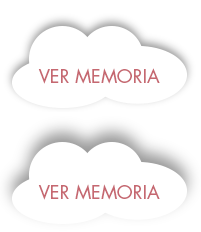
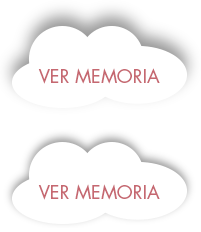
montones de cambios

diff --git a/app/webroot/css/tema1.css b/app/webroot/css/tema1.css
@@ -333,7 +333,7 @@ p.whatdo{
 .cover_menu{
   width: 600px;
   position: absolute;
-  left: 105px;
+  left: 113px;
   top: 350px;
 }
 
@@ -357,11 +357,12 @@ p.whatdo{
   width: 188px;
   height: 130px;
   text-indent: -9999px;
+  margin-top: -9px;
 }
 
 .share_bt:hover{
   background-position: 0 134px;
-  margin-top: -5px;
+  margin-top: -13px;
 }
 
 
@@ -371,16 +372,17 @@ p.whatdo{
   width: 188px;
   height: 123px;
   text-indent: -9999px;
+  margin-top: 1px;
 }
 
 .watch_bt:hover{
   background-position: 0 116px;
-  margin-top: -5px;
+  margin-top: -3px;
 }
 
 .instructions_bt{
   position: absolute;
-  left: 287px;
+  left: 282px;
   width: 236px;
   height: 76px;
   background-image: url(../img/bt_instrucciones.png);
@@ -1494,6 +1496,10 @@ text-align: center;
   margin: 0 0 10px 0;
 }
 
+#FirstkickPageAddForm .photogenic input {
+    width: 357px;
+}
+
 #FirstkickPageAddForm .hasDatepicker {
   width: 120px;
 }
@@ -1509,8 +1515,7 @@ text-align: center;
 }
 
 #FirstkickPageAddForm .colL .hasDatepicker {
-    margin-top: 300px;
-    padding-left: 60px;
+    margin: 310px 65px 0;
 }
 
 #FirstkickPageAddForm .colR {
@@ -1920,6 +1925,18 @@ text-align: center;
   left: 100px;
   top: 70px;
 }
+
+#queesanidar{
+	display: none;
+	background-image: url(../img/pop_anidar.png);
+	width: 390px;
+	height: 366px;
+	position: fixed;
+	left: 144px;
+	top: 500px;
+	z-index: 1;
+}
+
 
 #NestingPageAddForm .dado {
   width: 300px;

diff --git a/app/webroot/css/tema3.css b/app/webroot/css/tema3.css
@@ -34,6 +34,10 @@ input[type="text"], input[type="number"], textarea {
   background-image: url(../img/tema3/titulo_back.png);
 }
 
+.whoami_photo {
+  background-image: url(../img/tema3/marco_whoami.png);
+}
+
 .cover_photo,
 .photo-up,
 .photo-v {
@@ -76,10 +80,12 @@ p.whatdo{
 
 .share_bt{
   background-image: url(../img/tema3/bt_compartir.png);
+  margin-top: -3px;
 }
 
 .watch_bt{
   background-image: url(../img/tema3/bt_ver.png);
+  margin-top: 4px;
 }
 
 .instructions_bt {
@@ -127,6 +133,9 @@ form .submit input[type="submit"]{
 
 .bebes {
   background: url(../img/tema3/bebesotes.png);
+  width: 661px;
+  height: 363px;
+  left: 70px;
 }
 
 .add_moment:before {
@@ -144,6 +153,10 @@ form .submit input[type="submit"]{
   background-image: url(../img/tema3/mar.png);
 }
 
+#queesanidar {
+  background-image: url(../img/tema3/pop_anidar.png);
+}
+
 
 /* COLORS */
 
@@ -151,9 +164,14 @@ form .submit input[type="submit"]{
 .aux_text,
 p.middle_note,
 .ultra .info h3,
+#BellymonthPageAddForm .cerca,
+#GettingclosePageAddForm .miedo,
 .note_sintom_,
 #SpecialdeliveryPageAddForm .nota-foot,
 #AnimoPageAddForm h3,
+#NestingPageAddForm .emociones,
+#ByebellyPageAddForm .nota,
+#CoolultrasoundPageAddForm .uno h3,
 #AnimoPageAddForm p {
   color: #808080;
 }

diff --git a/app/webroot/css/tema4.css b/app/webroot/css/tema4.css
@@ -34,6 +34,10 @@ input[type="text"], input[type="number"], textarea {
   background-image: url(../img/tema4/titulo_back.png);
 }
 
+.whoami_photo {
+  background-image: url(../img/tema4/marco_whoami.png);
+}
+
 .cover_photo,
 .photo-up,
 .photo-v {
@@ -57,6 +61,8 @@ input[type="text"], input[type="number"], textarea {
 #photo-back-1 {
   background-image: url(../img/tema4/marco_fondo.png);
 }
+
+
 
 .pick_fb{
   background-image: url(../img/tema4/bt_elegir.png);
@@ -154,6 +160,9 @@ form .submit input[type="submit"]{
   background-image: url(../img/tema4/mar.png);
 }
 
+#queesanidar {
+  background-image: url(../img/tema4/pop_anidar.png);
+}
 
 
 /* COLORS */
@@ -165,8 +174,13 @@ p.middle_note,
 .note_sintom_,
 #SpecialdeliveryPageAddForm .nota-foot,
 #AnimoPageAddForm h3,
+#BellymonthPageAddForm .cerca,
+#GettingclosePageAddForm .miedo,
+#CoolultrasoundPageAddForm .uno h3,
+#NestingPageAddForm .emociones,
+#ByebellyPageAddForm .nota,
 #AnimoPageAddForm p {
-  color: #0C5773; //AZUL
+  color: ##632c4f;
 }
 
 ul.vertical_menu_1 li{
@@ -263,4 +277,12 @@ input[type="text"] {
 }
 
 
+p.middle_note {
+  top: 120px;
+}
+
+
+.sintomPages {
+  top: 190px;
+}
 

diff --git a/app/webroot/css/tema2.css b/app/webroot/css/tema2.css
@@ -32,6 +32,10 @@ input[type="text"], input[type="number"], textarea {
   background-image: url(../img/tema2/titulo_back.png);
 }
 
+.whoami_photo {
+  background-image: url(../img/tema2/marco_whoami.png);
+}
+
 .cover_photo,
 .photo-up,
 .photo-v {
@@ -72,8 +76,17 @@ p.whatdo{
   background-image: url(../img/tema2/bt_escribir.png);
 }
 
+.write_bt:hover {
+  margin-top: -12px;
+}
+
+
 .share_bt{
   background-image: url(../img/tema2/bt_compartir.png);
+}
+
+.share_bt:hover {
+  margin-top: -20px;
 }
 
 .watch_bt{
@@ -145,6 +158,11 @@ form .submit input[type="submit"]{
   background-image: url(../img/tema2/mar.png);
 }
 
+#queesanidar {
+  background-image: url(../img/tema2/pop_anidar.png);
+}
+
+
 /* COLORS */
 
 #last_input,
@@ -154,6 +172,11 @@ p.middle_note,
 .note_sintom_,
 #SpecialdeliveryPageAddForm .nota-foot
 #AnimoPageAddForm h3,
+#BellymonthPageAddForm .cerca,
+#GettingclosePageAddForm .miedo,
+#CoolultrasoundPageAddForm .uno h3,
+#NestingPageAddForm .emociones,
+#ByebellyPageAddForm .nota,
 #AnimoPageAddForm p {
   color: #0C5773; //AZUL
 }
